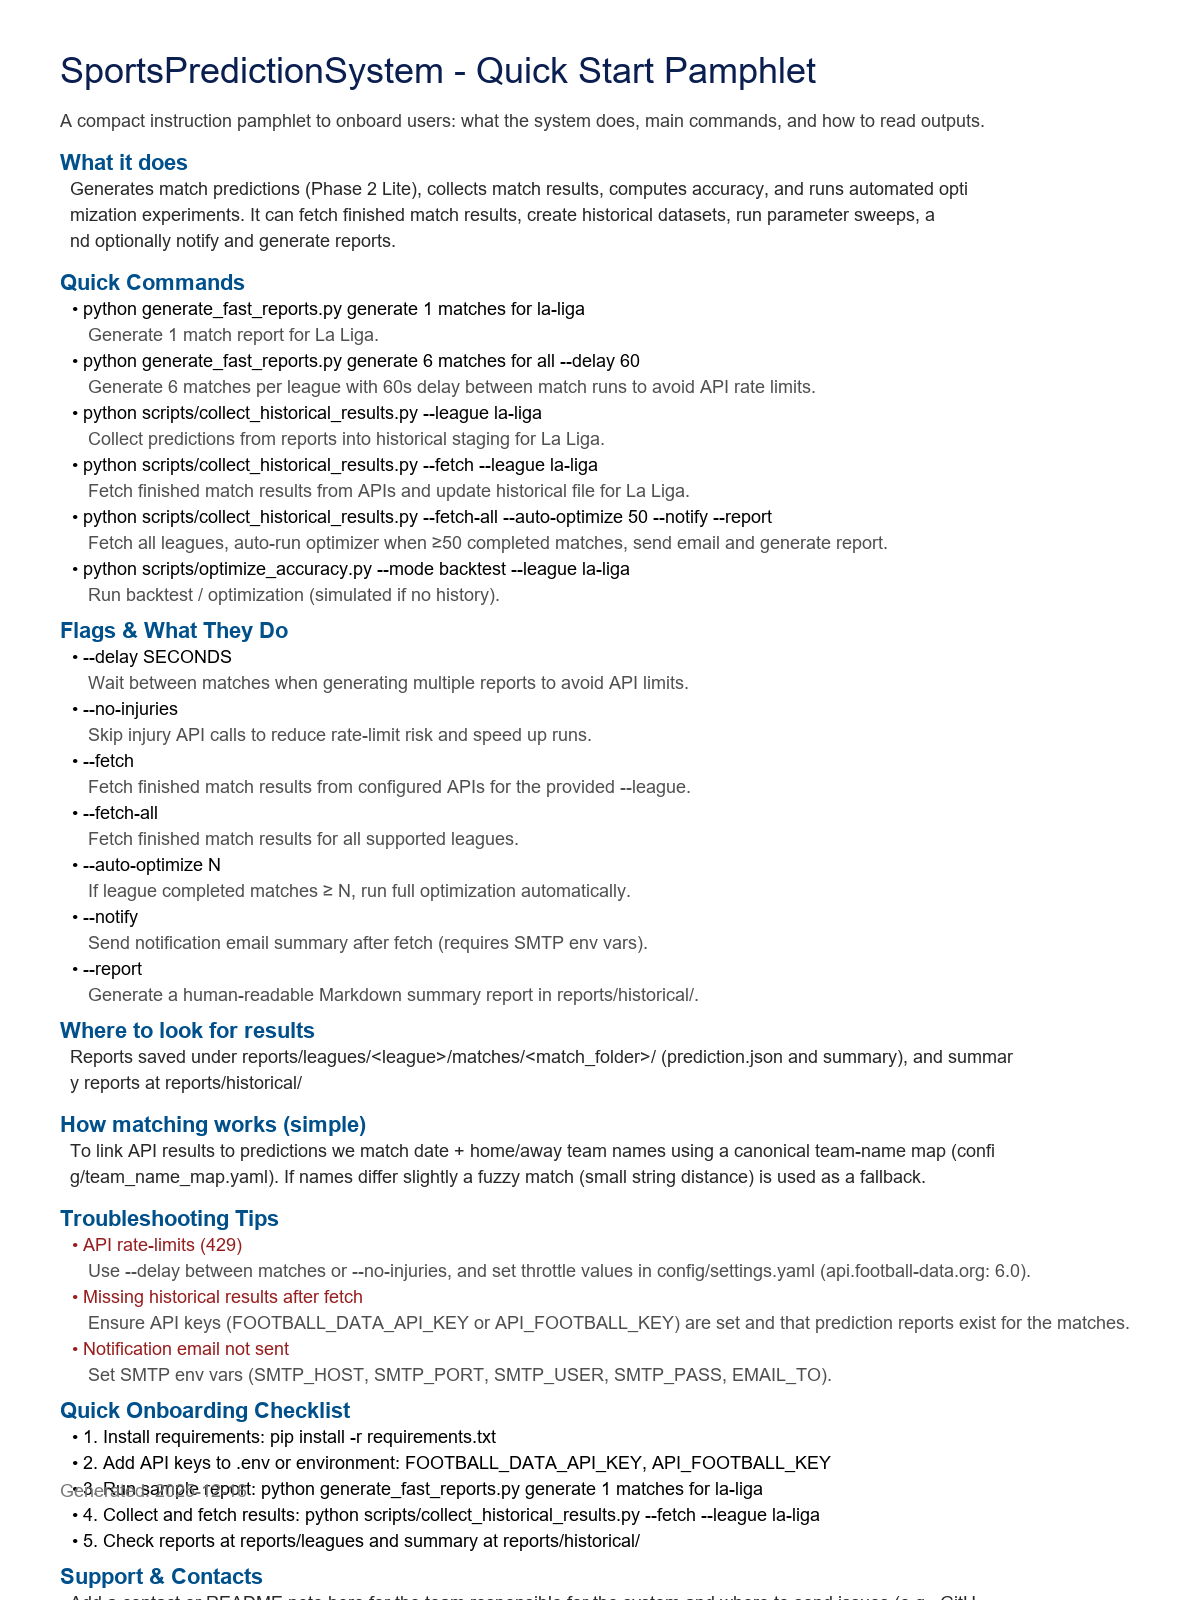
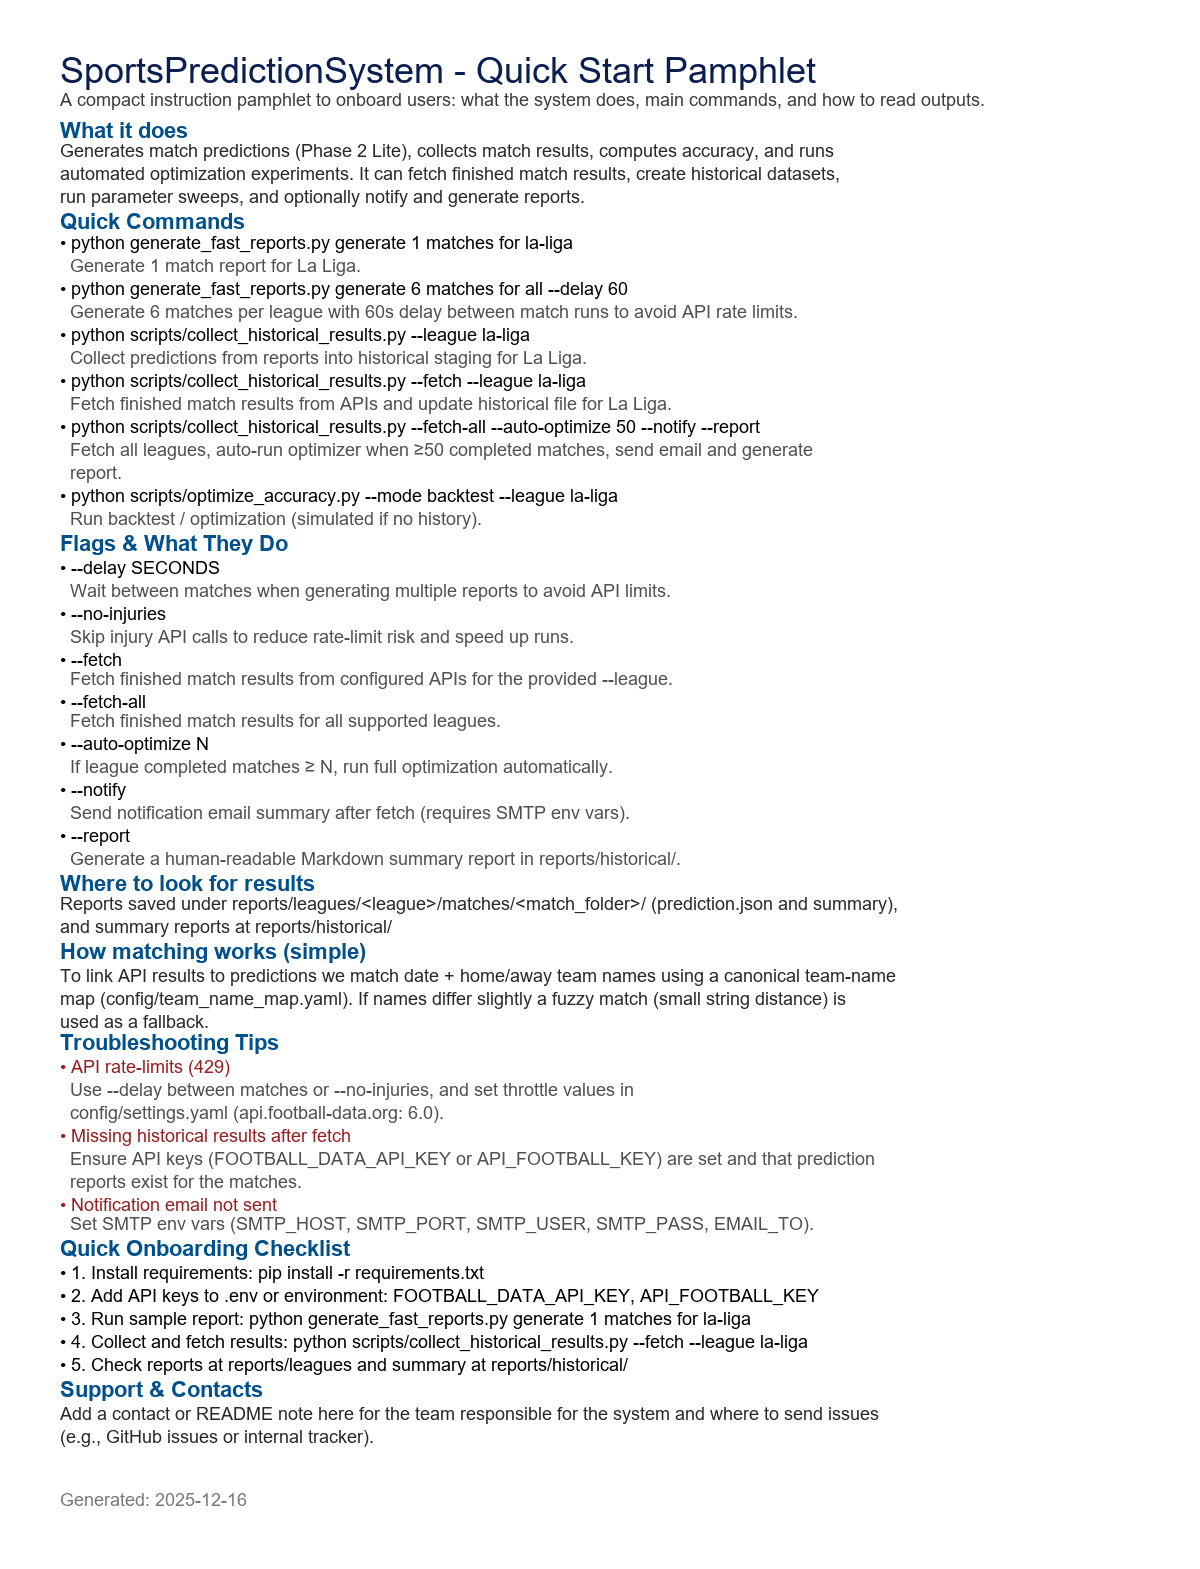
fix(pamphlet): dynamic height and font fallback to avoid content cutoff

Changed region(s): [[0.0308, 0.0312, 0.925, 1.0], [0.6783, 0.5621, 0.74, 0.5934], [0.6783, 0.8744, 0.7092, 0.9057]]

diff --git a/scripts/generate_pamphlet_png.py b/scripts/generate_pamphlet_png.py
@@ -14,72 +14,90 @@ if not IN.exists():
 with IN.open('r', encoding='utf-8') as f:
     obj = json.load(f)
 
-# Basic page settings
-W, H = 1200, 1600
+# Basic assets: background and fonts
 bg = (255, 255, 255)
-img = Image.new('RGB', (W, H), bg)
-d = ImageDraw.Draw(img)
-
-# Load a default font
 try:
     font_h = ImageFont.truetype('arial.ttf', 36)
     font_s = ImageFont.truetype('arial.ttf', 18)
     font_b = ImageFont.truetype('arialbd.ttf', 22)
 except Exception:
+    # Fallback to default fonts if system fonts unavailable
     font_h = ImageFont.load_default()
     font_s = ImageFont.load_default()
     font_b = ImageFont.load_default()
 
-# Margins
-x = 60
-y = 50
-line_h = 26
+# Build lines to draw and measure required height
+import textwrap
+lines = []  # tuples of (text, font, fill)
 
 # Title
-d.text((x, y), obj.get('title', 'Pamphlet'), fill=(10, 30, 80), font=font_h)
-y += 60
-
-d.text((x, y), obj.get('overview', ''), fill=(60, 60, 60), font=font_s)
-y += 40
+lines.append((obj.get('title', 'Pamphlet'), font_h, (10, 30, 80)))
+lines.append((obj.get('overview', ''), font_s, (60, 60, 60)))
+lines.append(("", font_s, (0, 0, 0)))
 
 for section in obj.get('sections', []):
     heading = section.get('heading')
     if heading:
-        d.text((x, y), heading, fill=(0, 80, 140), font=font_b)
-        y += 28
-    # Body
+        lines.append((heading, font_b, (0, 80, 140)))
     body = section.get('body')
     if body:
-        # wrap text a bit
-        for line in [body[i:i+110] for i in range(0, len(body), 110)]:
-            d.text((x+10, y), line, fill=(40, 40, 40), font=font_s)
-            y += line_h
-        y += 6
-    # Items
-    for it in section.get('items', []) or []:
+        wrapped = textwrap.wrap(body, width=100)
+        for wline in wrapped:
+            lines.append((wline, font_s, (40, 40, 40)))
+    items = section.get('items', []) or []
+    for it in items:
         if 'cmd' in it:
-            d.text((x+12, y), f"• {it['cmd']}", fill=(0, 0, 0), font=font_s)
-            y += line_h
-            d.text((x+28, y), it.get('desc', ''), fill=(80, 80, 80), font=font_s)
-            y += line_h
+            lines.append((f"• {it['cmd']}", font_s, (0, 0, 0)))
+            for desc_line in textwrap.wrap(it.get('desc', ''), width=90):
+                lines.append((f"  {desc_line}", font_s, (80, 80, 80)))
         elif 'flag' in it:
-            d.text((x+12, y), f"• {it['flag']}", fill=(0, 0, 0), font=font_s)
-            y += line_h
-            d.text((x+28, y), it.get('desc', ''), fill=(80, 80, 80), font=font_s)
-            y += line_h
+            lines.append((f"• {it['flag']}", font_s, (0, 0, 0)))
+            for desc_line in textwrap.wrap(it.get('desc', ''), width=90):
+                lines.append((f"  {desc_line}", font_s, (80, 80, 80)))
         elif 'issue' in it:
-            d.text((x+12, y), f"• {it['issue']}", fill=(150, 30, 30), font=font_s)
-            y += line_h
-            d.text((x+28, y), it.get('fix', ''), fill=(80, 80, 80), font=font_s)
-            y += line_h
-        else:
-            d.text((x+12, y), f"• {str(it)}", fill=(0, 0, 0), font=font_s)
-            y += line_h
-    y += 8
+            lines.append((f"• {it['issue']}", font_s, (150, 30, 30)))
+            for fix_line in textwrap.wrap(it.get('fix', ''), width=90):
+                lines.append((f"  {fix_line}", font_s, (80, 80, 80)))
+        elif 'cmd' not in it and 'flag' not in it and 'issue' not in it:
+            # generic item
+            lines.append((f"• {str(it)}", font_s, (0, 0, 0)))
 
 # Footer
-d.text((x, H-120), f"Generated: {obj.get('version')}", fill=(120, 120, 120), font=font_s)
+footer = f"Generated: {obj.get('version')}"
+
+# Estimate image height
+x = 60
+margin_top = 50
+margin_bottom = 80
+spacing = 6
+curr_y = margin_top
+# We need a temporary ImageDraw to measure text sizes
+_tmp_img = Image.new('RGB', (1200, 100), bg)
+_tmp_draw = ImageDraw.Draw(_tmp_img)
+required_height = curr_y
+for (text, fnt, _) in lines:
+    bbox = _tmp_draw.textbbox((0,0), text, font=fnt)
+    line_h = bbox[3] - bbox[1]
+    required_height += line_h + spacing
+required_height += margin_bottom + 40  # room for footer
+
+# Create final image with computed height
+W = 1200
+H = max(900, required_height)
+img = Image.new('RGB', (W, H), bg)
+d = ImageDraw.Draw(img)
+
+# Draw the lines
+y = margin_top
+for (text, fnt, fill) in lines:
+    d.text((x, y), text, fill=fill, font=fnt)
+    bbox = d.textbbox((x, y), text, font=fnt)
+    line_h = bbox[3] - bbox[1]
+    y += line_h + spacing
+
+# Footer
+d.text((x, H-margin_bottom), footer, fill=(120, 120, 120), font=font_s)
 
 OUT.parent.mkdir(parents=True, exist_ok=True)
 img.save(OUT)
-print(f"Pamphlet image generated: {OUT}")
+print(f"Pamphlet image generated: {OUT} (size: {W}x{H})")
